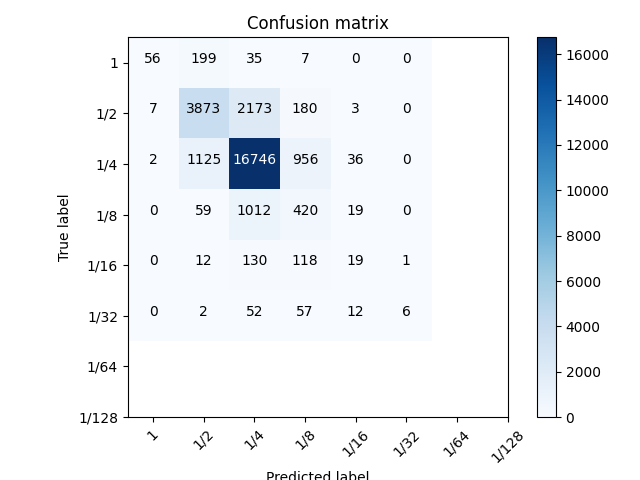
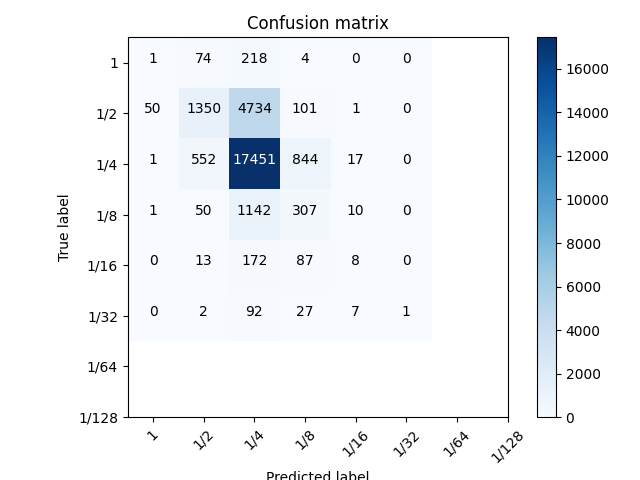
100 epochs no learning rate scheduler

diff --git a/src/model.py b/src/model.py
@@ -10,7 +10,7 @@ from tensorflow.keras import layers
 from DatasetFromCSV import *
 
 BATCH_SIZE = 32
-MAX_EPOCHS = 10
+MAX_EPOCHS = 100
 
 
 def plot_confusion_matrix(cm, classes,
@@ -61,16 +61,12 @@ def compile_and_train(dataset):
         loss_weights=dict(notes=1, duration=0.01)
     )
 
-    early_stopping = tf.keras.callbacks.EarlyStopping(monitor='val_loss',
-                                                      patience=2,
-                                                      mode='min')
     model.fit(x=dataset.train_inputs,
               y={'notes': dataset.train_labels["notes"], 'duration': dataset.train_labels["duration"]},
               epochs=MAX_EPOCHS,
               batch_size=BATCH_SIZE,
               verbose=2,
               shuffle=True,
-              callbacks=[early_stopping],
               validation_split=0.2
               )
     return model
